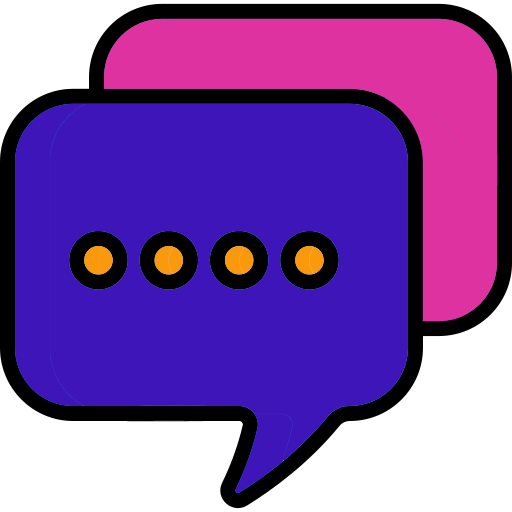
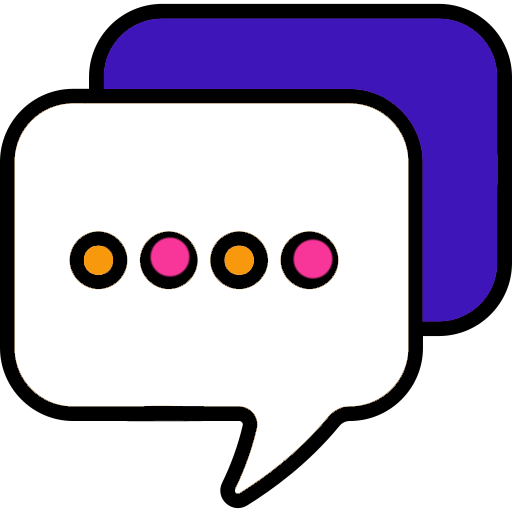
amin panel

diff --git a/src/views/Admin-panel.vue b/src/views/Admin-panel.vue
@@ -1,5 +1,5 @@
 <template>
-  <div class="back ma-0 pa-0 h100 w100">
+  <div class="back rtl ma-0 pa-0 h100 w100">
 
   <!-- Content -->
 
@@ -8,7 +8,7 @@
 
   <!-- News -->
 
-  <div v-if="news" class="back ma-0 pa-0 h100 w100">
+  <div v-show="news" class="back ma-0 pa-0 h100 w100">
 
 
               <!-- create a new post -->
@@ -82,7 +82,7 @@
               </div>
 
               <!-- posts -->
-              <div v-for="(item, index) in 10" :key="index" class="w100 d-flex justify-center">
+              <div v-for="(post, index) in posts" :key="index" class="w100 d-flex justify-center">
                 <v-card
                 max-width="800"
                 class="h00 w90 elevation-16 ma-2 mb-4">
@@ -100,6 +100,19 @@
                     </v-avatar></v-btn>
 
                     <v-btn
+                    class="mt-3 mr-12 hidden-xs-only "
+                    fab
+                    right
+                    text
+                    absolute
+                    depressed
+                    color="indigo"
+                    @click="hide(index)"
+                    ><v-avatar size="35" tile class="">
+                    <v-img src="../assets/hide.png"></v-img>
+                    </v-avatar></v-btn>
+
+                    <v-btn
                     class="mt-12 hidden-sm-and-up elevation-16 float-illus"
                     fab
                     right
@@ -111,6 +124,22 @@
                     <v-img src="../assets/bin.png"></v-img>
                     </v-avatar></v-btn>
 
+                    <v-btn
+                    class="mt-12 mr-12 hidden-sm-and-up"
+                    fab
+                    right
+                    text
+                    absolute
+                    depressed
+                    color="indigo"
+                    @click="hide(index)"
+                    ><v-avatar size="35" tile class="">
+                    <v-img src="../assets/hide.png"></v-img>
+                    </v-avatar></v-btn>
+
+                    
+
+
 
                 
                 <v-list-item>
@@ -119,7 +148,7 @@
                 </v-avatar>
                 <v-list-item-content>
                 <v-list-item-title class="headline">Our Changing Planet</v-list-item-title>
-                <v-list-item-subtitle>by Noor</v-list-item-subtitle>
+                <v-list-item-subtitle>by Noor Post Number {{post.number}}</v-list-item-subtitle>
                 </v-list-item-content>
                 </v-list-item>
 
@@ -158,8 +187,13 @@
 
   <!-- comments -->
 
-  <div v-else class="back ma-0 pa-0 h100 w100">
-    <span class="display-1"> This is Comments</span>
+  <div v-show="!news" class="back ma-0 pa-0 h100 w100">
+    <div class="d-flex justify-center">
+      <v-avatar 
+      size="">
+        <v-img src=""></v-img>
+      </v-avatar>
+    </div>
   </div>
 
 
@@ -189,7 +223,7 @@
       fixed
       permanent
       right
-      class="hidden-xs-only nav elevation-1"
+      class="hidden-xs-only nav elevation-1 ltr"
       width="200"
     >
     <div
@@ -199,7 +233,7 @@
       size="80"
       class="ml-2"
       >
-        <img src="../assets/noor-logo-layer.png">
+        <img src="../assets/noor-colorful.png">
       </v-avatar>
     </div>
 
@@ -366,6 +400,14 @@ export default {
     news:true,
     sheet:false,
     logout:false,
+    posts:[
+      {number:1,hidden:false},
+      {number:2,hidden:false},
+      {number:3,hidden:false},
+      {number:4,hidden:false},
+      {number:5,hidden:false},
+      {number:6,hidden:false},
+    ]
   }),
 
   methods:{
@@ -378,7 +420,10 @@ export default {
 
     },
     remove(index){
-      index//
+      this.posts.splice(index,1);
+    },
+    hide(index){
+      this.posts[index].hidden = true;
     }
   }
 }

diff --git a/src/App.vue b/src/App.vue
@@ -1,7 +1,7 @@
 <template>
   <v-app dark>
 
-    <!-- <navi></navi> -->
+    <navi></navi>
 
     <v-content class="pa-0">
 
@@ -13,11 +13,11 @@
 </template>
 
 <script>
-// import Navi from './components/Navigation-drawer'
+import Navi from './components/Navigation-drawer'
 export default {
   name: 'App',
   components:{
-    // 'navi':Navi
+    'navi':Navi
   },
   data: () => ({
 

diff --git a/src/components/Navigation-drawer.vue b/src/components/Navigation-drawer.vue
@@ -26,7 +26,7 @@
             <v-avatar
             :size="logoH">
             <v-img
-                src="../assets/noor-logo-layer.png"
+                src="../assets/noor-colorful.png"
                 alt="John"
             >
             </v-img>
